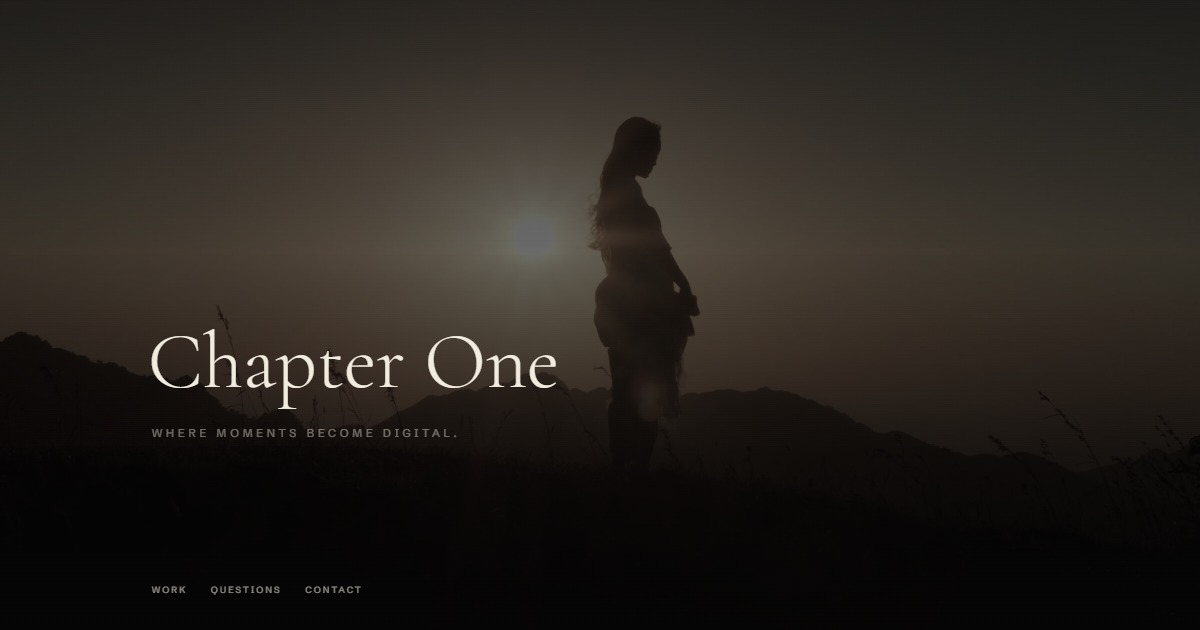
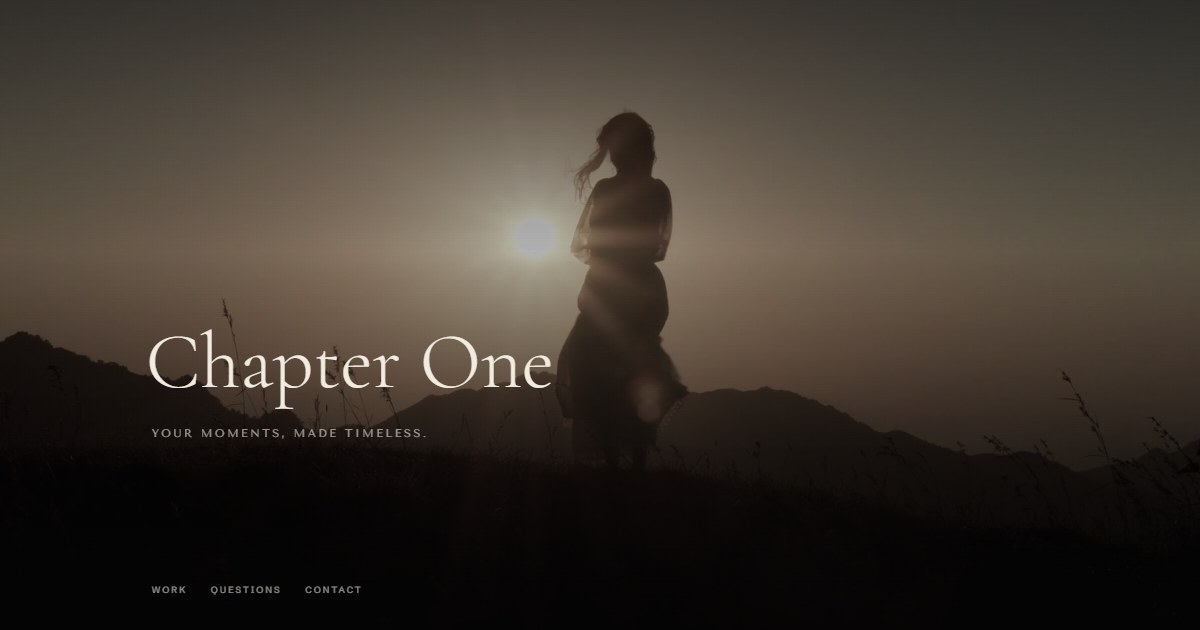
fix(scroll): the film's origin never rises above the document's top; share image shows the tagline
On an iPhone (design owner, Safari): menu → Contact, a fast scroll back up, and the page stopped on
Chapter II — no further scrolling up reached the first screen. The film's origin follows the hand back up
(`hand < origin → origin = hand`) and had no floor, so WebKit's rubber-band (a negative scrollY while the
page bounces at the top) and the input spring passing its target when a fast scroll stops at 0 left it
negative for good: at rest at the top the page was -origin into the film, and every pull up made it
worse. Both origin rules now stop at 0 (`held = Math.max(0, hand)`, `origin = Math.max(0, hand)`).

Simulated as WebKit reports it, one 120px bounce left --origin at -70 to -89px (top at p 1.16–1.21) and
a 300px bounce -191 to -199px (p ~1.45); after the fix 0 and p 1. On the Xiaomi (Chrome, CDP touch) the
spring alone left -0.17/-0.36px; after the fix 0 in all five scenarios (Contact fast/slow, Work, INDEX →
Contact, interrupted gestures). Validated by the design owner in Safari on the iPhone on an isolated
copy. B1, B4, INDEX/rail landings, the 11 viewports and the driver's outputs unchanged.

Share metadata: opengraph-image.alt.txt is "Chapter One — Your moments, made timeless." (and no longer
carries a trailing newline into the tag); opengraph-image.jpg re-captured from the site at 1200 × 630 —
it showed "Where moments become digital.". SESSION-HANDOFF.md records the fix, the tests and what is
still unverified on physical devices.

diff --git a/src/app/scroll-stage.tsx b/src/app/scroll-stage.tsx
@@ -1058,7 +1058,8 @@ export default function ScrollStage() {
       let s = 0
       if (root.dataset.opening === 'running') {
         origin = null
-        held = hand
+        /* Never above the document's top — see the origin's own floor below. */
+        held = Math.max(0, hand)
         anchor(y)
         if (sheetPrice !== null) window.__sheet?.(0, 0, clock)
       } else {
@@ -1075,9 +1076,20 @@ export default function ScrollStage() {
             first frame, so moving the origin cannot change a single value. All it changes is how far
             they have to scroll to get back to Chapter II — from "however far I flicked" to "not at
             all", which is the answer they would expect.
+
+            **It stops at the document's top.** The hand can stand above it for a few frames: WebKit
+            reports a negative `scrollY` while the page bounces at the top, and the input spring can
+            pass the target when a fast scroll stops dead at 0. Followed there, the origin stayed
+            negative for good, so a page at rest at the top was `-origin` into the film and could never
+            show its first frame again — and every further pull up made it worse (21 October 2026, an
+            iPhone: menu → Contact, a fast scroll back up, stuck on Chapter II). Simulated as WebKit
+            reports it, one 120px bounce left `--origin` at −70 to −89px and the top at p 1.16–1.21; a
+            300px bounce, p 1.45. On the Xiaomi, which does not bounce, the spring alone left −0.2 to
+            −0.4px. Above the top the shot is at its first frame anyway, so the floor changes nothing
+            else. The design owner validated it in Safari on that iPhone the same day.
           */
-          origin = hand
-          anchor(y, true)
+          origin = Math.max(0, hand)
+          anchor(origin - inset, true)
         }
         const distance = Math.max(0, hand - origin) / frameVh() / perBeat
         const wanted = sheetPrice !== null ? sheetPrice.warp(distance) : distance

diff --git a/docs/development/SESSION-HANDOFF.md b/docs/development/SESSION-HANDOFF.md
@@ -1,6 +1,65 @@
-# CHAPTER ONE — CURRENT STATE · session handoff — 21 October 2026
+# CHAPTER ONE — CURRENT STATE · session handoff — 21 October 2026 (end of day)
 
-## ▶ 21 October 2026 · the tagline is Tenor Sans, as wide as *Chapter* (C43) · B1 and B4 committed · read this first
+## ▶ LATER ON 21 October 2026 · the top could not be reached again on an iPhone — fixed · share image updated · read this first
+
+Self-contained; the section below (`35dd3ac` and before) still stands. One commit on `v3` after it, pushed
+to `origin/v3`; **not** merged to `master`, nothing deployed.
+
+### The bug (design owner, iPhone, Safari)
+
+Menu → Contact, a fast scroll back up: the page stopped on Chapter II and no further scrolling up reached
+the first screen.
+
+**Cause** — `src/app/scroll-stage.tsx`, the film's origin. It follows the hand back up (`hand < origin →
+origin = hand`, the case of somebody who scrolled during the opening) and had no floor. Two inputs put the
+hand above the document's top for a few frames: WebKit's rubber-band (a negative `scrollY` while the page
+bounces at the top) and the input spring passing its target when a fast scroll stops dead at 0. The origin
+then stayed negative for good, so the page at rest at the top was `-origin` into the film and every further
+pull up pushed it further. The jump to Contact is only what produces the long, fast flick and the large
+bounce; it reproduces with no navigation at all. **B1 and B4 are not involved.**
+
+**Fix** — two lines: `held = Math.max(0, hand)` while the opening runs, and
+`origin = Math.max(0, hand); anchor(origin - inset, true)` where the origin follows the hand. Above the top
+the shot is at its first frame anyway, so nothing else changes. Validated by the design owner in Safari on
+the iPhone, on an isolated copy (`D:\STUDIO-fix-origin`, :3211, since removed); the integrated build was
+not re-tested on the iPhone.
+
+### Measured
+
+| | Before | After |
+|---|---|---|
+| One 120px bounce at the top, simulated as WebKit reports it (Chrome, 390 and 1440) | `--origin` −70 to −89px, top at p 1.16–1.21 | `--origin` 0, p 1 |
+| One 300px bounce | −191 to −199px, p 1.43–1.47 | 0, p 1 |
+| Fast return from Contact, 150px/frame (spring only) | −0.2 to −0.5px | 0 |
+| Xiaomi Mi 11 Lite, Chrome 155, CDP touch (Chrome's own fling, not a finger): start→Contact fast / slow, start→Work fast, INDEX→Contact, interrupted gestures | origin −0.17 / −0.36px in two scenarios, p 1.001 (invisible; Chrome never reports `scrollY` < 0) | 0 in all five, p 1 |
+| Scrolled 2600px during the opening, then back up (the rule's own case) | origin 2600 → 1200 | identical |
+
+On Android a drag down at the top is Chrome's pull-to-refresh: the page reloads and the opening plays again.
+That is the browser's, not the site's.
+
+Regression on the integrated build (:3000): the 11 viewports (320 … 1920: tagline, one line, no overflow,
+narrative 1 → 14 → 1, the hero's links, the footage, 0 console errors), INDEX / rail landings at 7 sizes,
+B4 (menu → Questions on touch, first row ~1.40s) and B1 (0 orphan frames, Chromium and WebKit) unchanged;
+`six` against the build without the fix within run-to-run noise. `typecheck`, `lint`, `build` pass.
+
+### Share image
+
+`src/app/opengraph-image.alt.txt` (rendered as `og:image:alt` and `twitter:image:alt`) is now
+*Chapter One — Your moments, made timeless.*, without the trailing newline the file used to carry into the
+tag. `src/app/opengraph-image.jpg` was re-captured the way it was first made (`daa90cf`): the hero from the
+site itself at 1200 × 630, the footage at ~7.5s, the scrollbar hidden for the capture only, JPEG 44.8KB
+(was 49.3KB) — it showed *Where moments become digital.* Nothing else in the metadata changed.
+
+### Still open
+
+- The integrated build on a physical iPhone (the copy was validated there; the code is identical).
+- The 15 October checks on a physical phone: the orphan answer (B1), menu → Questions and a real fast flick
+  (B4).
+- B2 and B5, untouched. The 768 × 1024 fast scroll in which no row of Questions arrives within 5s,
+  unchanged and unexplained.
+- `docs/brand/open-decisions.md` §7 and C43 (the third face).
+
+## ▶ 21 October 2026 · the tagline is Tenor Sans, as wide as *Chapter* (C43) · B1 and B4 committed
 
 Self-contained. It supersedes the 20 October section below **for the tagline's typography and for the Git
 state**, and it supersedes the 15 October instruction not to commit B1/B4: the design owner asked on
